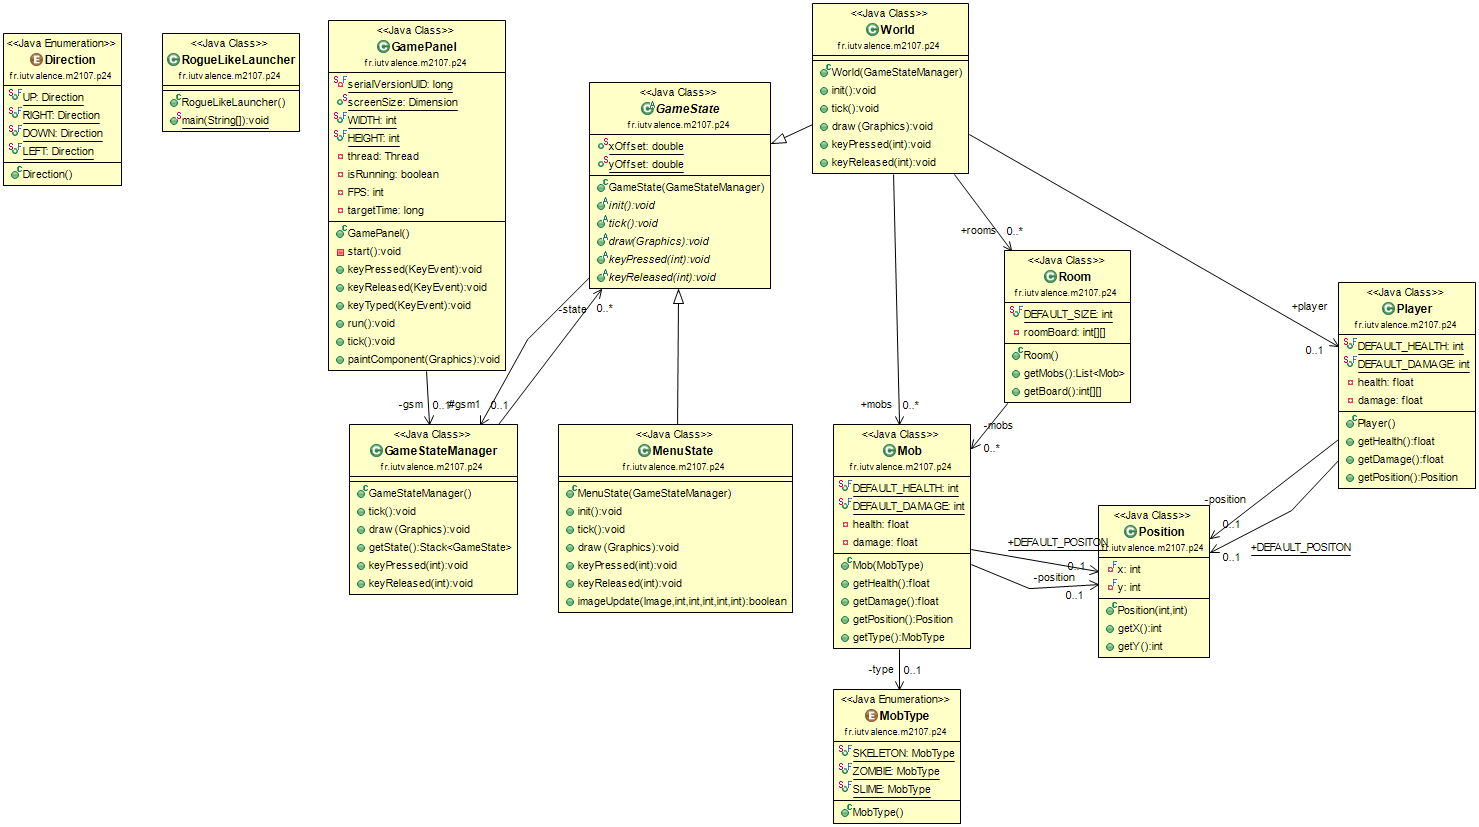
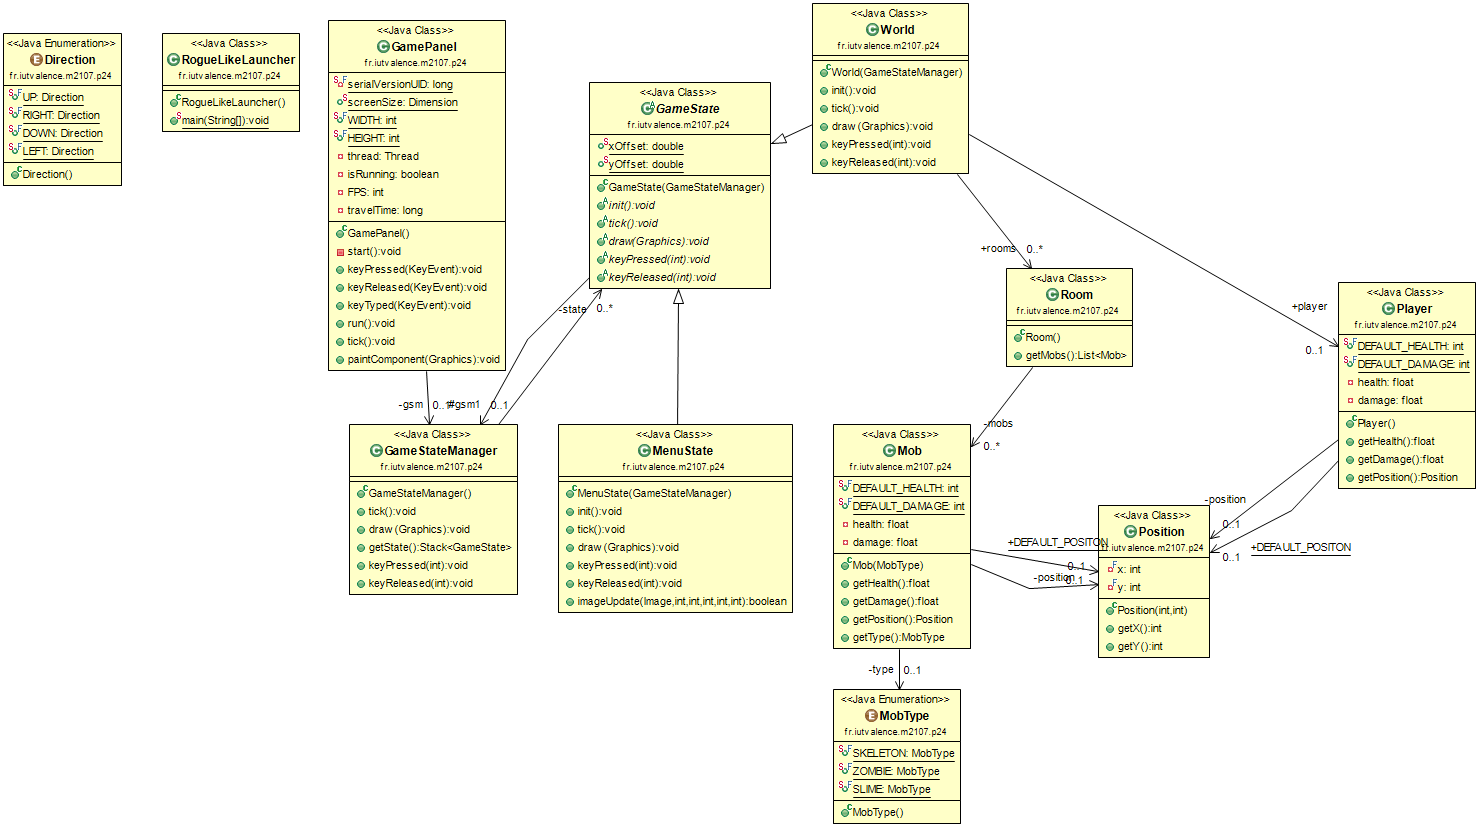
Created random generation of mobs, positions...

diff --git a/src/fr/iutvalence/m2107/p24/World.java b/src/fr/iutvalence/m2107/p24/World.java
@@ -2,20 +2,13 @@ package fr.iutvalence.m2107.p24;
 
 import java.awt.Graphics;
 
-public class World extends GameState
-{
+public class World extends GameState {
 
 	/**
-	 * Rooms of the World. We make a one-dimensional table because the world have
+	 * Rooms of the World. We make a two-dimensional table because the world have
 	 * many Rooms.
 	 */
 	public Room[][] rooms;
-
-	/**
-	 * Mobs of the World. We make a one-dimensional table because the world have
-	 * many Mobs.
-	 */
-	public Mob[] mobs;
 
 	/**
 	 * The Player in the World.
@@ -27,8 +20,7 @@ public class World extends GameState
 	 * 
 	 * @param gsm State of the game.
 	 */
-	public World(GameStateManager gsm)
-	{
+	public World(GameStateManager gsm) {
 		super(gsm);
 
 	}
@@ -38,13 +30,10 @@ public class World extends GameState
 	 * Initialization of your game. We set the player and then we create all the
 	 * rooms.
 	 */
-	public void init()
-	{
+	public void init() {
 		this.player = new Player();
-		for (int i = 0; i < this.rooms.length; i++)
-		{
-			for (int j = 0; j < this.rooms.length; j++)
-			{
+		for (int i = 0; i < this.rooms.length; i++) {
+			for (int j = 0; j < this.rooms[i].length; j++) {
 				this.rooms[i][j] = new Room();
 			}
 		}
@@ -52,26 +41,22 @@ public class World extends GameState
 	}
 
 	@Override
-	public void tick()
-	{
+	public void tick() {
 
 	}
 
 	@Override
-	public void draw(Graphics p0)
-	{
+	public void draw(Graphics p0) {
 
 	}
 
 	@Override
-	public void keyPressed(int p0)
-	{
+	public void keyPressed(int p0) {
 
 	}
 
 	@Override
-	public void keyReleased(int p0)
-	{
+	public void keyReleased(int p0) {
 
 	}
 

diff --git a/src/fr/iutvalence/m2107/p24/Room.java b/src/fr/iutvalence/m2107/p24/Room.java
@@ -2,31 +2,28 @@ package fr.iutvalence.m2107.p24;
 
 import java.util.ArrayList;
 import java.util.List;
+import java.util.Random;
 
 public class Room {
-	
-	/**
-	 * Default size of the room.
-	 */
-	public static final int DEFAULT_SIZE = 20;
 	
 	/**
 	 * List of all mobs in this room.
 	 */
 	private List<Mob> mobs = new ArrayList<Mob>();
 	
-	/**
-	 * The Board of the game.
-	 * we make a two-dimensional table because we've got a height and a width so 2 dimension.
-	 * TTT board upper-left corner is at [0][0], TTT board lower-left corner is at [DEFAULT_SIZE][DEFAULT_SIZE].
-	 */
-	private int[][] roomBoard = new int[DEFAULT_SIZE][DEFAULT_SIZE];
+	public static final int MAX_MOBS = 10;
+	
 	
 	/**
 	 * Constructor of your Room.
 	 */
 	public Room() {
+		Random random = new Random();
+		int mobAmount = random.nextInt(MAX_MOBS);
 		
+		for(int i = 0; i < mobAmount; i ++) {
+			this.mobs.add(new Mob(MobType.randomMobType()));
+		}
 	}
 
 	/**
@@ -34,14 +31,6 @@ public class Room {
 	 */
 	public List<Mob> getMobs() {
 		return this.mobs;
-	}
-	
-	/**
-	 * 
-	 * @return the board of your game (Getter)
-	 */
-	public int[][] getBoard() {
-		return this.roomBoard;
 	}
 	
 }

diff --git a/src/fr/iutvalence/m2107/p24/GamePanel.java b/src/fr/iutvalence/m2107/p24/GamePanel.java
@@ -19,14 +19,15 @@ public class GamePanel extends JPanel implements Runnable, KeyListener
     public static Dimension screenSize = Toolkit.getDefaultToolkit().getScreenSize();
     
     /**
-     * Set the Width at screenSize (1280)
+     * Set the Width at screenSize
      */
-    public static final int WIDTH = screenSize.width ;		//1280
+    public static final int WIDTH = screenSize.width ;
     
     /**
-     * Set the Height at screenSize (720)
+     * Set the Height at screenSize
      */
-    public static final int HEIGHT = screenSize.height;		//720
+    public static final int HEIGHT = screenSize.height;
+    
     @SuppressWarnings("unused")
 	private Thread thread;
     

diff --git a/src/fr/iutvalence/m2107/p24/Mob.java b/src/fr/iutvalence/m2107/p24/Mob.java
@@ -13,11 +13,6 @@ public class Mob {
 	public static final int DEFAULT_DAMAGE = 2;
 	
 	/**
-	 * the default position of the mob
-	 */
-	public static final Position DEFAULT_POSITON = new Position(0, 0); // TODO random Position in the room
-	
-	/**
 	 * the health of the mob
 	 */
 	private float health;
@@ -45,7 +40,7 @@ public class Mob {
 	public Mob(MobType theType) {
 		this.health = DEFAULT_HEALTH;
 		this.damage = DEFAULT_DAMAGE;
-		this.position = DEFAULT_POSITON;
+		this.position = Position.randomPosition();
 		this.type = theType;
 	}
 	

diff --git a/src/fr/iutvalence/m2107/p24/Position.java b/src/fr/iutvalence/m2107/p24/Position.java
@@ -1,5 +1,7 @@
 package fr.iutvalence.m2107.p24;
 
+import java.util.Random;
+
 public class Position {
 
 	/**
@@ -34,6 +36,13 @@ public class Position {
 	 */
 	public int getY() {
 		return this.y;
+	}
+
+	public static Position randomPosition() {
+		Random random = new Random();
+		int width = GamePanel.WIDTH;
+		int height = GamePanel.HEIGHT;
+		return new Position(random.nextInt(width) - width/2, random.nextInt(height) - height/2);
 	}
 	
 }

diff --git a/src/fr/iutvalence/m2107/p24/MobType.java b/src/fr/iutvalence/m2107/p24/MobType.java
@@ -1,5 +1,7 @@
 package fr.iutvalence.m2107.p24;
 
+import java.util.Random;
+
 public enum MobType {
 /**
  * All possible types of mobs
@@ -7,5 +9,11 @@ public enum MobType {
 	SKELETON,
 	ZOMBIE,
 	SLIME;
+	
+	public static MobType randomMobType() {
+		MobType[] allMobs = MobType.values();
+		Random random = new Random();
+		return allMobs[random.nextInt(allMobs.length)];
+	}
 	
 }
